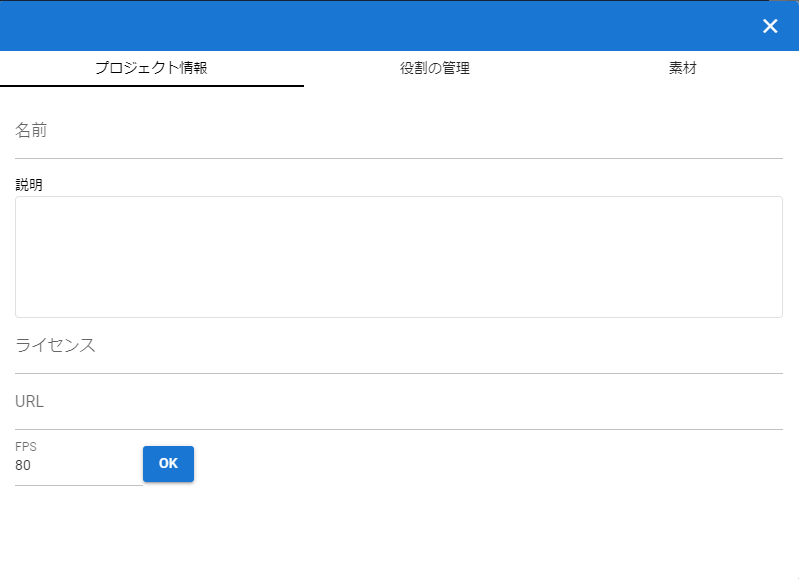
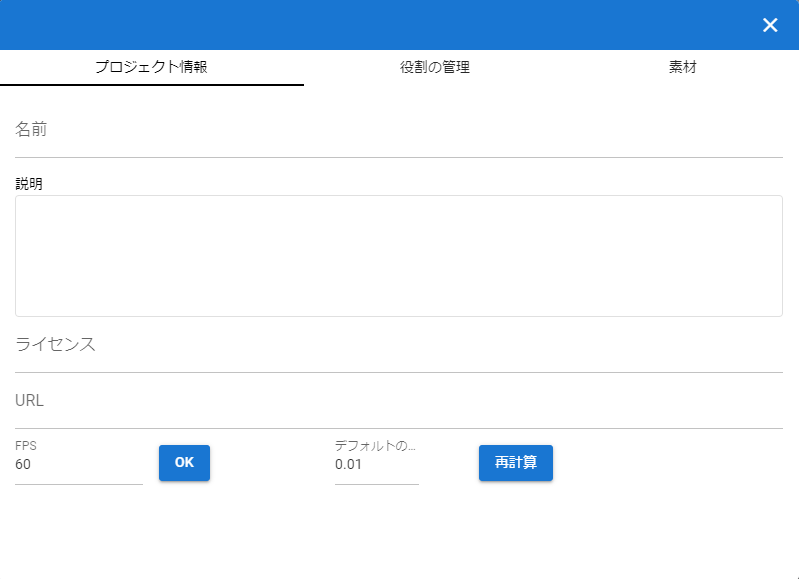
2023/09/02夜時点
For ver 2.1.6 - 20230902

diff --git a/docs/source/conf.py b/docs/source/conf.py
@@ -22,7 +22,7 @@ copyright = '2022, ISHII Eiju'
 author = 'ISHII Eiju'
 
 # The full version, including alpha/beta/rc tags
-release = '2.1.2'
+release = '2.1.6'
 
 
 # -- General configuration ---------------------------------------------------

diff --git a/docs/source/man4/animation_proper.rst b/docs/source/man4/animation_proper.rst
@@ -46,7 +46,9 @@
 
 　これを任意の秒数に変更することができます。
 
-1. リボンバーの ``デフォルトの間隔`` を入力します。（0.0001～99.9999 秒）
+1. プロジェクトの設定を開きます。
+2. プロジェクト情報タブの ``デフォルトの間隔`` を入力します。（0.0001～99.9999 秒）
+3. 現在登録済みのキーフレームの間隔も全て再計算する場合、 ``再計算`` ボタンを押してください。
 
 .. image:: img/proper_h.png
     :align: center
@@ -59,6 +61,9 @@
 
 .. hint::
     キーフレーム個別で間隔を設定したい場合は後述の :doc:`animation_register` →「キーフレームの間隔を設定する」を参照してください。
+
+.. warning::
+    ``再計算`` ボタンを押すと自動的に全キーフレームのduration(間隔)を更新します。手動で設定した間隔も全て変更されるので、変更以降のキーフレームのみ対象にする場合は押さないでください。
 
 
 .. index:: 

diff --git a/docs/source/man1/menu_animation.rst b/docs/source/man1/menu_animation.rst
@@ -37,10 +37,12 @@
     アニメーションを完全に停止します。
 :ループ:
     ループ再生をオン・オフ切り替えます。
-:デフォルトの間隔:
-    現在のアニメーションプロジェクトにおいて、1フレーム間の秒数を指定します。デフォルトでは ``FPS / 6000.0`` の計算結果がセットされます。
-    
 
+..
+    :デフォルトの間隔:
+        現在のアニメーションプロジェクトにおいて、1フレーム間の秒数を指定します。デフォルトでは ``FPS / 6000.0`` の計算結果がセットされます。
+    
+* デフォルトの間隔はプロジェクトの設定に移動しました。
 
 **Frame operation 内**
 

diff --git a/docs/source/man1/screen_project.rst b/docs/source/man1/screen_project.rst
@@ -27,6 +27,10 @@
     アニメーションプロジェクトのライセンス条項（必要であれば）
 :FPS:
     アニメーションのFPSを設定します。 
+:デフォルトの間隔:
+    現在のアニメーションプロジェクトにおいて、1フレーム間の秒数を指定します。デフォルトでは ``FPS / 6000.0`` の計算結果がセットされます。
+:再計算:
+    デフォルトの間隔を設定した後に押すことで全てのキーフレームの間隔を再計算します。
 
 
 役割の管理
